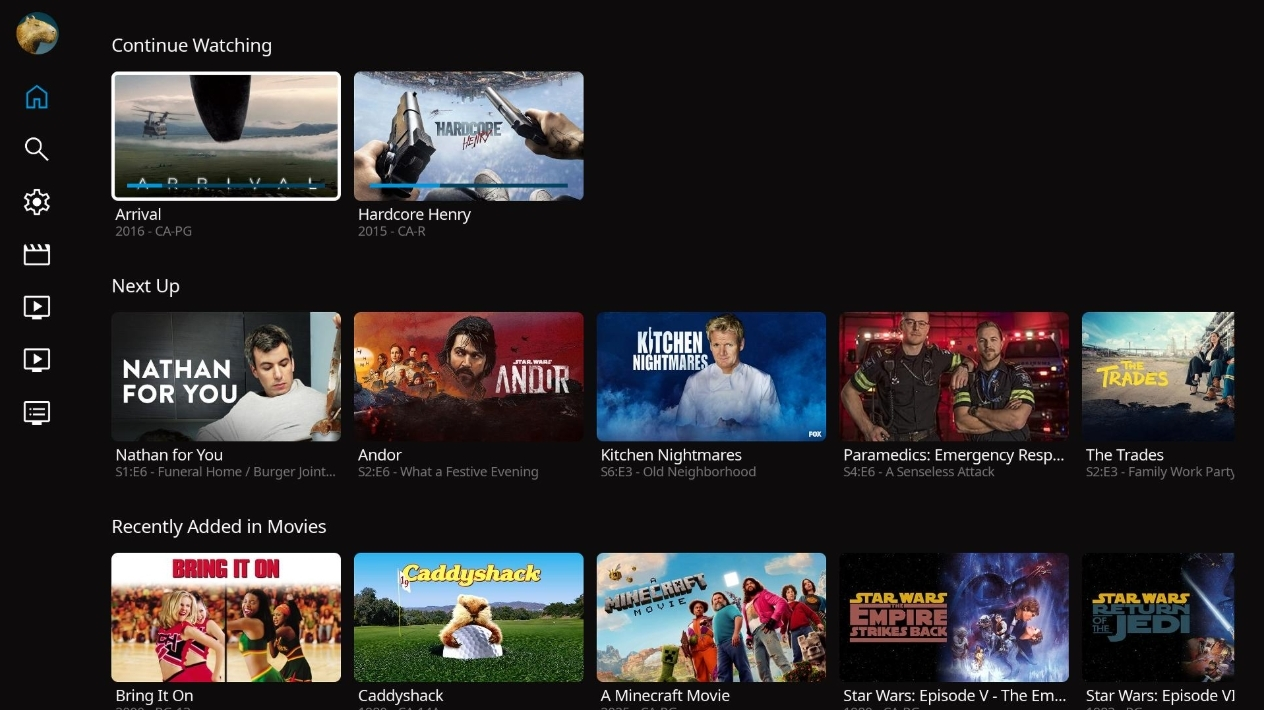
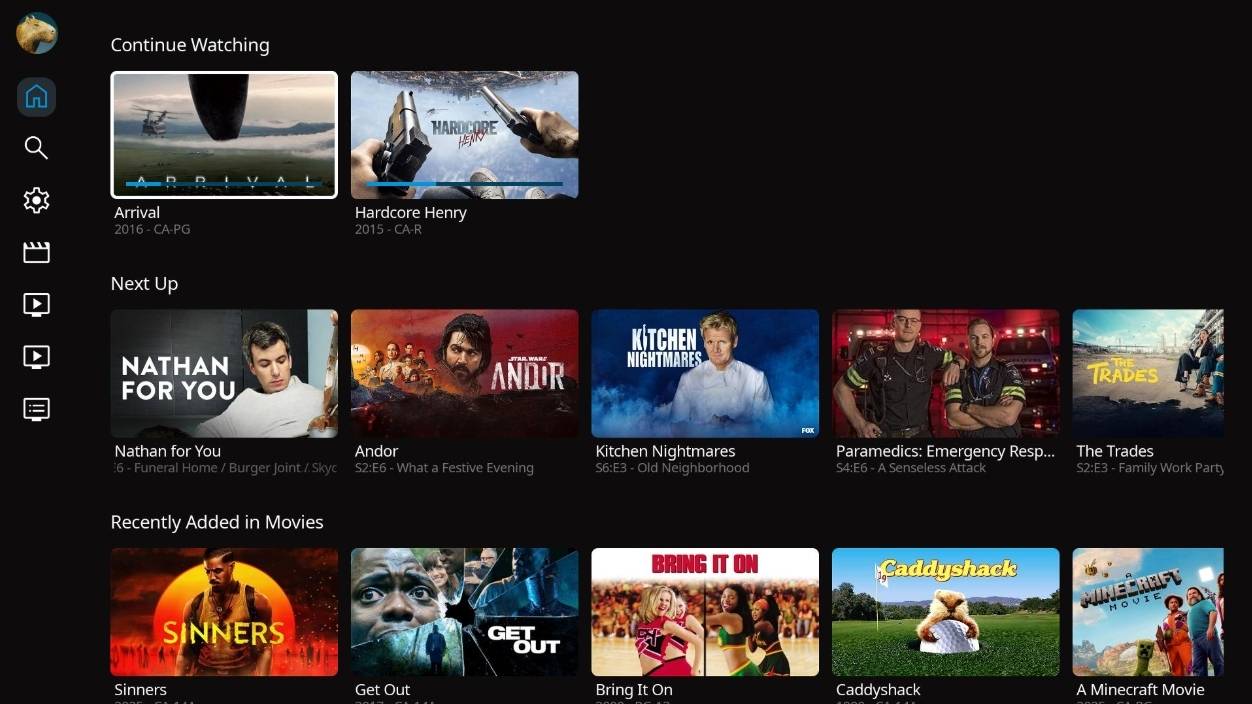
update screenshots

diff --git a/README.md b/README.md
@@ -13,7 +13,7 @@
 It is **not affiliated with the Jellyfin project**.
 
 ## Screenshots
-Screenshots below may be outdated. Last screenshots taken: `2025-05-29`
+Screenshots below may be outdated. Last screenshots taken: `2025-06-12`
 
 <table align="center">
   <tr>
